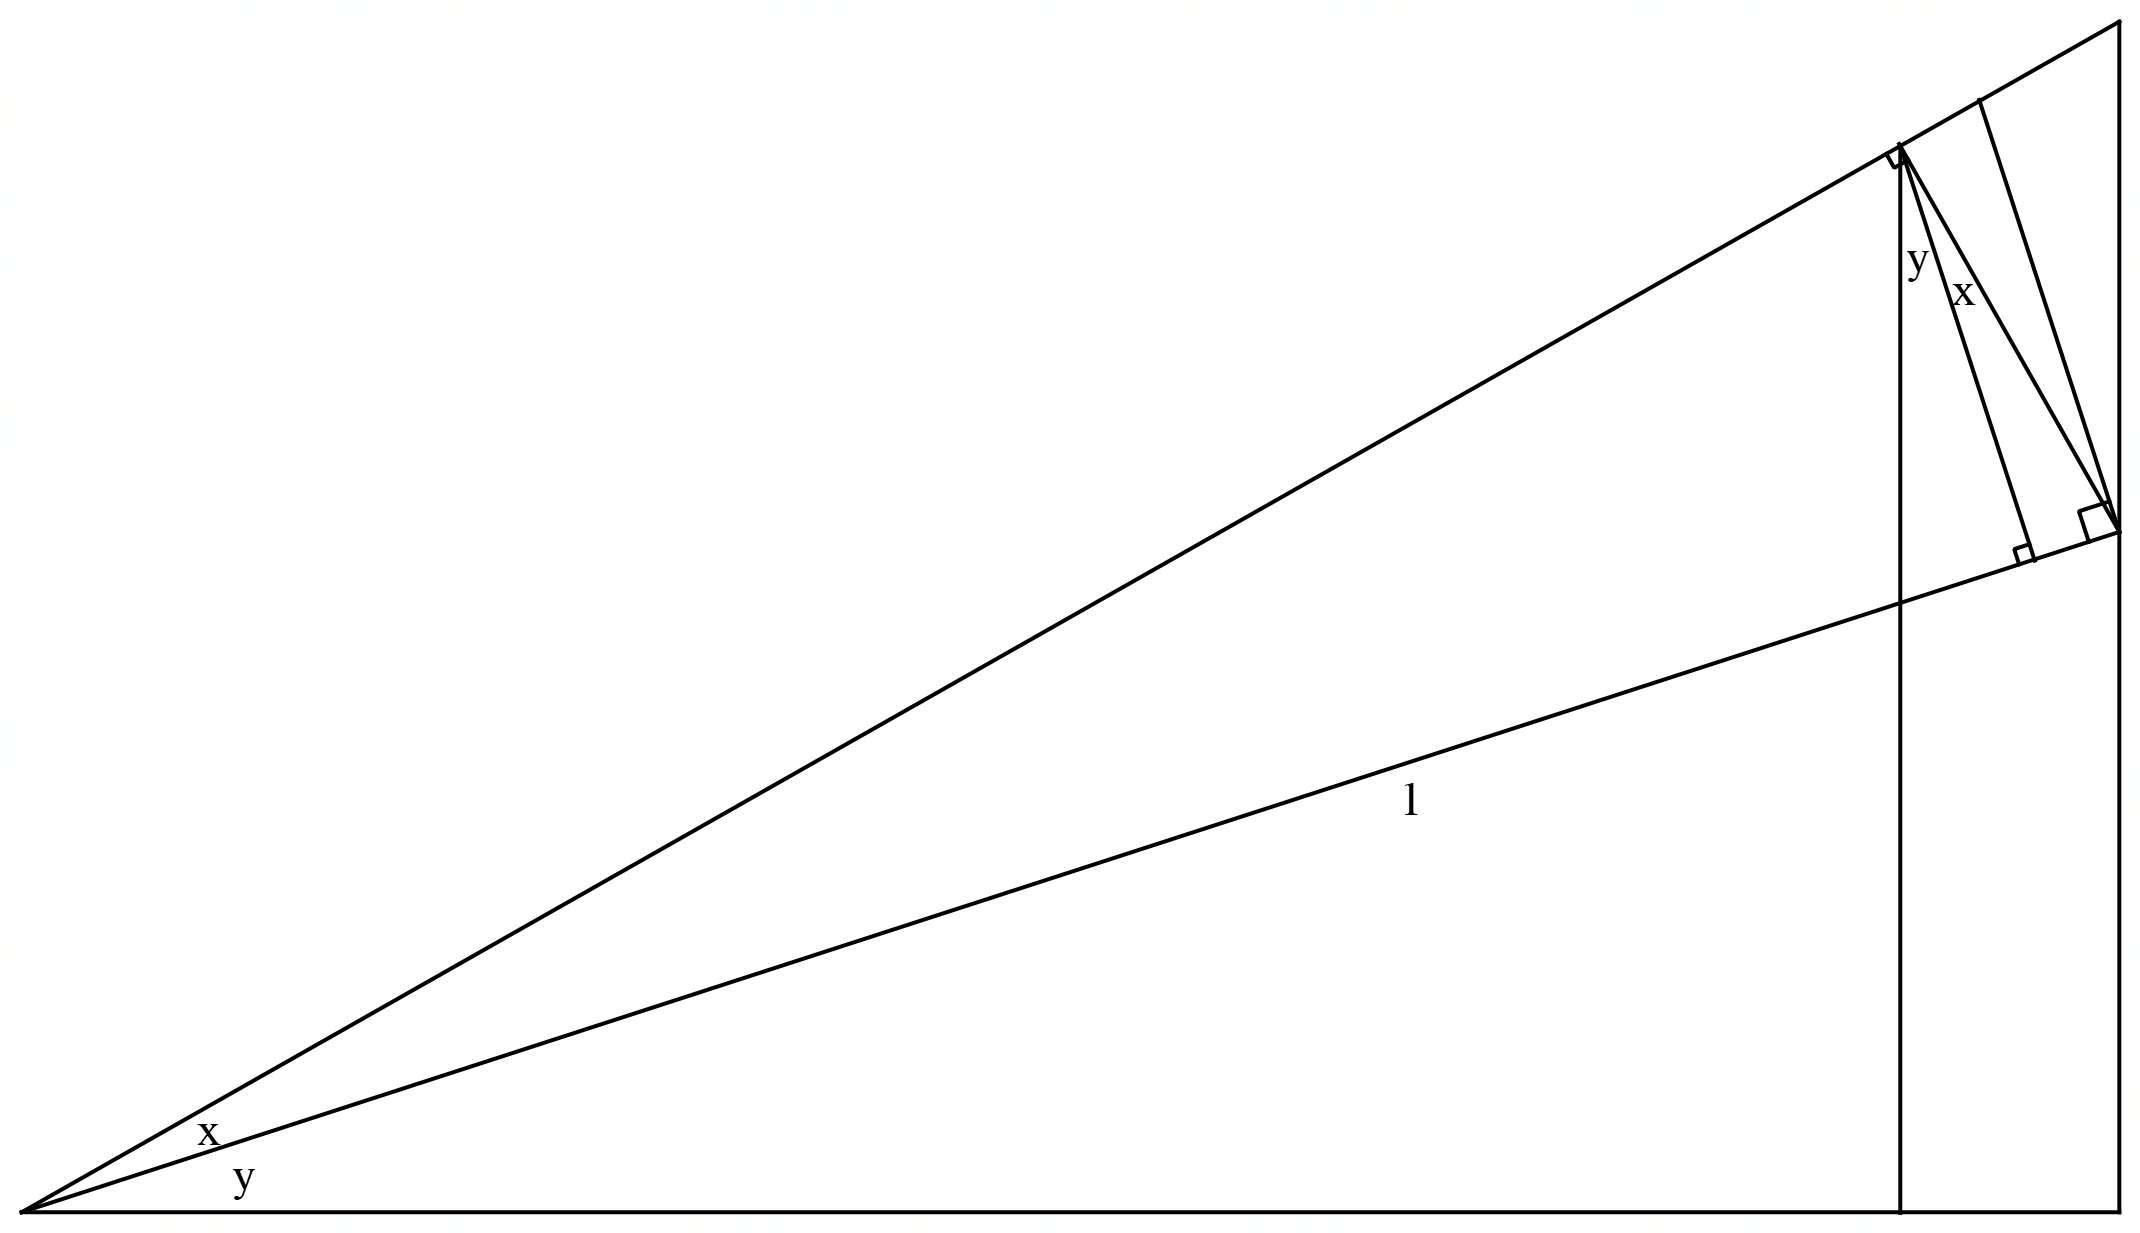
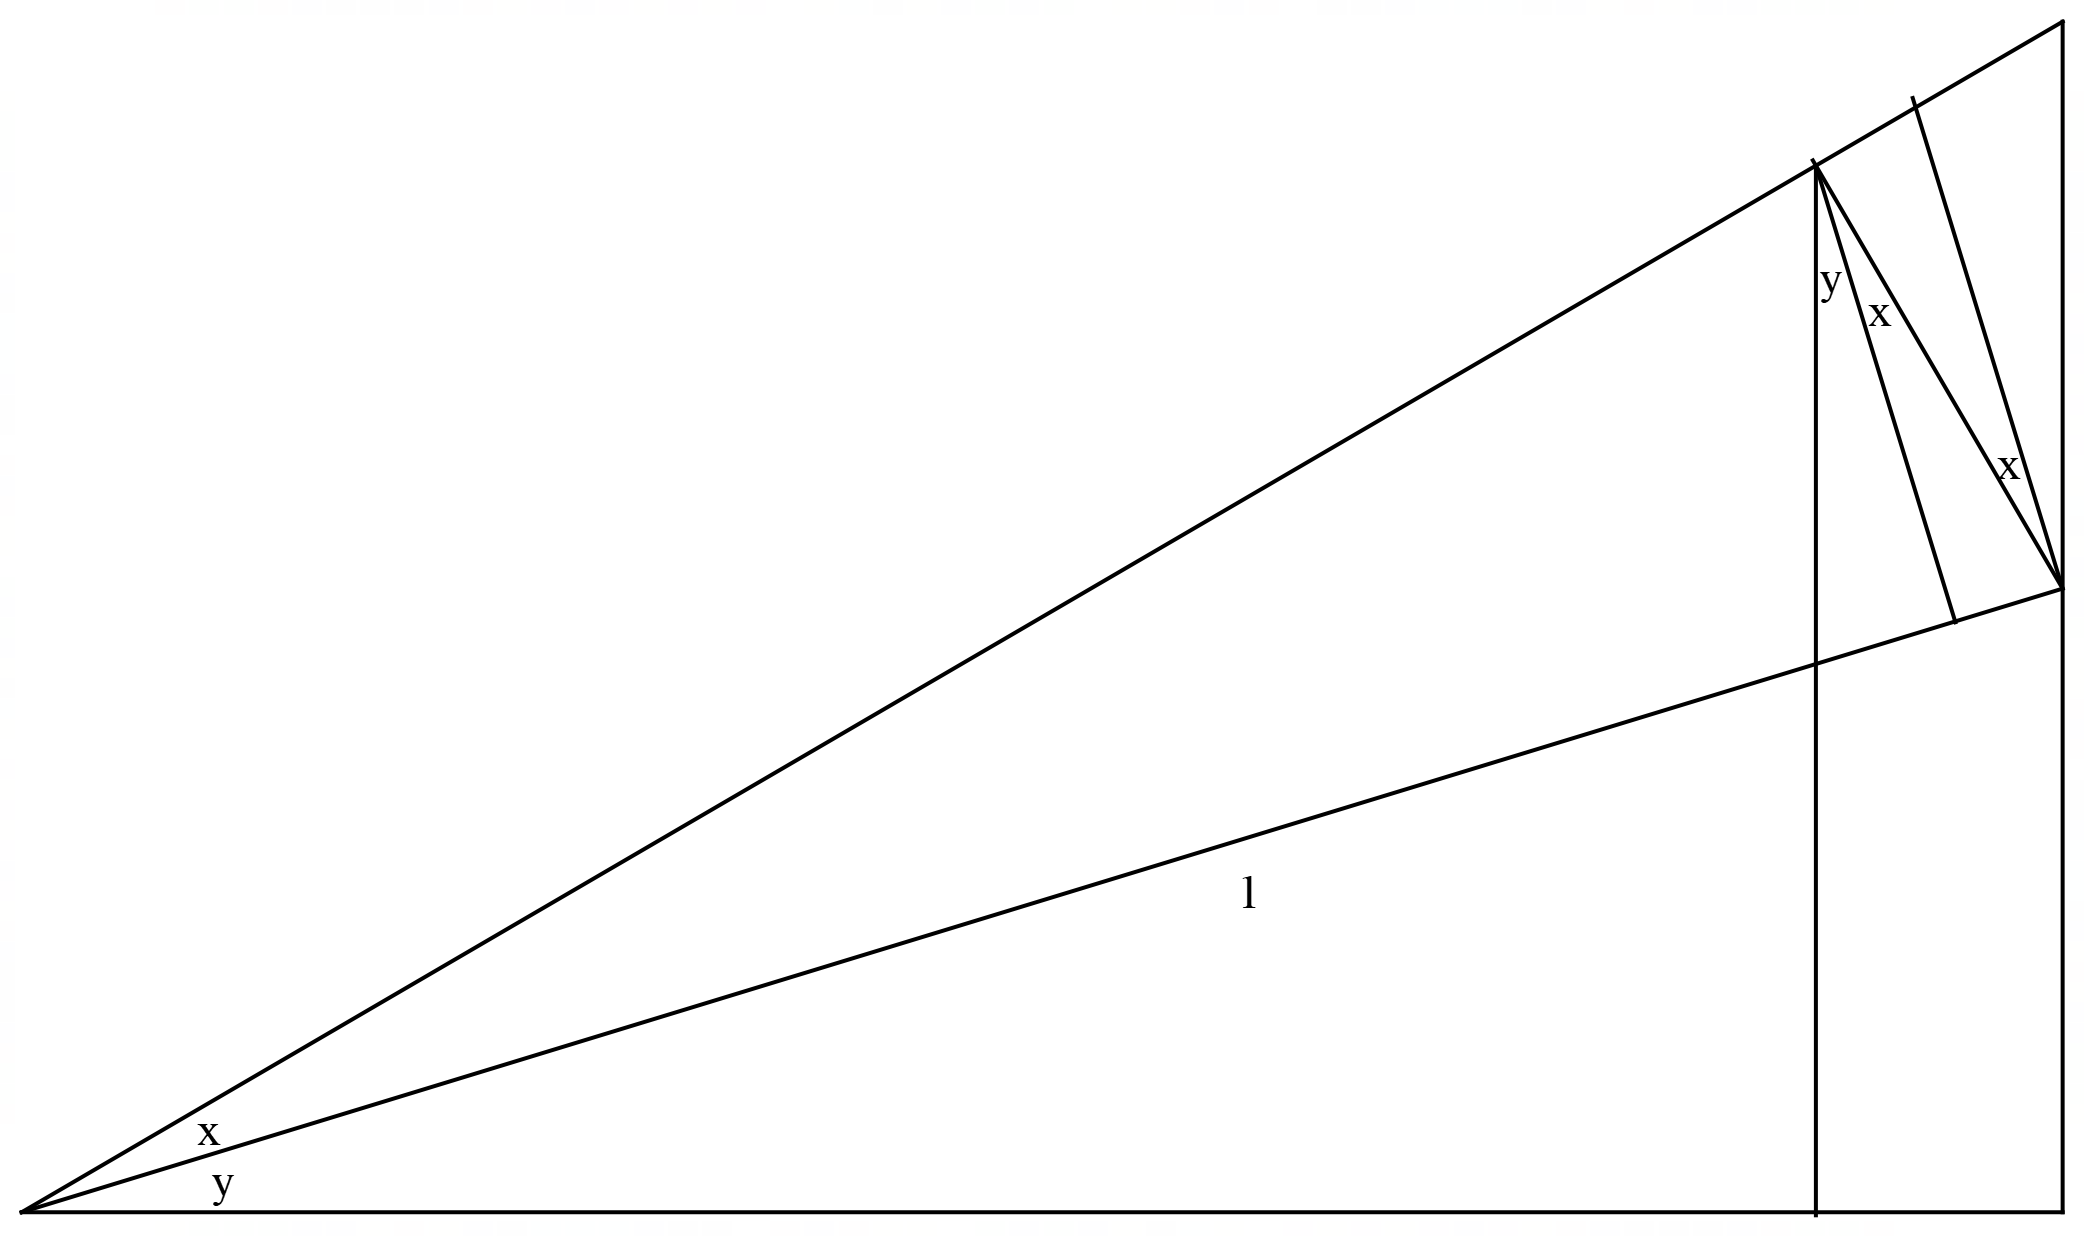
added sine and cos additive property

diff --git a/Algebra/geometric_trig/addition_sine_angle.md b/Algebra/geometric_trig/addition_sine_angle.md
@@ -1,0 +1,48 @@
+We want to understand what happens to our trig functions when we add angles.
+For example, $\sin(x+y)$ and $\cos(x+y)$ :
+![[additive_angles.png]]
+Notice that we start with $1$ here and what we need to find now is the relation between the hypotenuse and the opposite and adjacent to the angle $x+y$.
+
+To prove this we start by using sine and cos :
+![[additive_angles2.png]]
+Here we can notice that we have some similar right triangles and we will establish some key lengths by ratios:
+![[additive_angles4.png]]
+$$
+\frac{\frac{\sin x}{\cos x}}{\frac{1}{\cos x}} = \frac{R_{1}}{1} \implies R_{1} = \sin x
+$$
+$$
+\frac{\sin x}{\frac{1}{\cos x}} = \frac{R_{2}}{1} = \sin x \cos x
+$$
+$$
+\frac{\sin x \cos x}{\cos y} = \frac{R_{3}}{1} = R_{3}
+$$
+$$
+\frac{R_{4}}{\frac{\sin x}{\cos x}} = \sin x \cos x = \sin^2 x
+$$
+$$
+\frac{R_{5}}{\sin y} = \frac{\sin x \cos x}{\cos y} = \frac{\sin x \cos x \sin y}{\cos y}
+$$
+$$
+R_{6} = 1 - \sin^2 x - \frac{\sin x \cos x \sin y}{\cos y} = \cos^2x - \frac{\sin x \cos x \sin y}{\cos y}
+$$
+$$
+\frac{R_{7}}{\sin y} = \cos^2x - \frac{\sin x \cos x \sin y}{\cos y} = \cos^2 x \sin y - \frac{\sin x \cos x \sin^2 y}{\cos y}
+$$
+$$
+R_{8} = \frac{\sin x \cos x}{\cos y} + \cos^2 x \sin y - \frac{\sin x \cos x \sin^2 y}{\cos y}
+$$
+
+$$
+R_{8} = \sin(x+y) \cos x \implies \sin (x+y) = \frac{\sin x}{\cos y} + \cos x \sin y - \frac{\sin x \sin^2 y}{\cos y}
+$$
+$$
+R_{9} = \frac{\sin x \cos x}{\sin x} = \cos x
+$$
+![[additive_angles3.png]]
+
+$$
+(\sin x) \frac{1 - \sin^2 y}{\cos y} = \sin x \cos y
+$$
+$$
+\sin(x+y) = \cos x \sin y + \sin x \cos y
+$$

diff --git a/Algebra/geometric_trig/addition_cos_angle.md b/Algebra/geometric_trig/addition_cos_angle.md
@@ -1,0 +1,15 @@
+
+Using [[addition_sine_angle]], $\sin(x+y)$, we can find $\cos (x + y)$ by the [[sin_cos_relation]] :
+$$
+\sqrt{ 1 - (\cos x \sin y + \sin x \cos y)^2 }
+= \sqrt{ 1 - \cos^2 x \sin^2 y - 2 \sin x \cos y \cos x \sin y - \sin^2 x \cos^2 y  }
+$$
+$$
+\begin{align}
+& \sqrt{ 1 - \cos^2 x \sin^2 y - 2 \sin x \cos y \cos x \sin y - \sin^2 x \cos^2 y  } \\ \\
+& =\sqrt{ \cos^2x - \cos^2 x \sin^2 y + \sin^2x - \sin^2x \cos^2 y - 2\dots } \\
+& = \sqrt{ \cos^2x\cos^2y + \sin^2x\sin^2y - 2\sin x \cos y \cos x \sin y } \\
+& = \sqrt{ (\cos x \cos y - \sin x \sin y)^2 } \\
+& = \cos x \cos y - \sin x \sin y
+\end{align}
+$$
